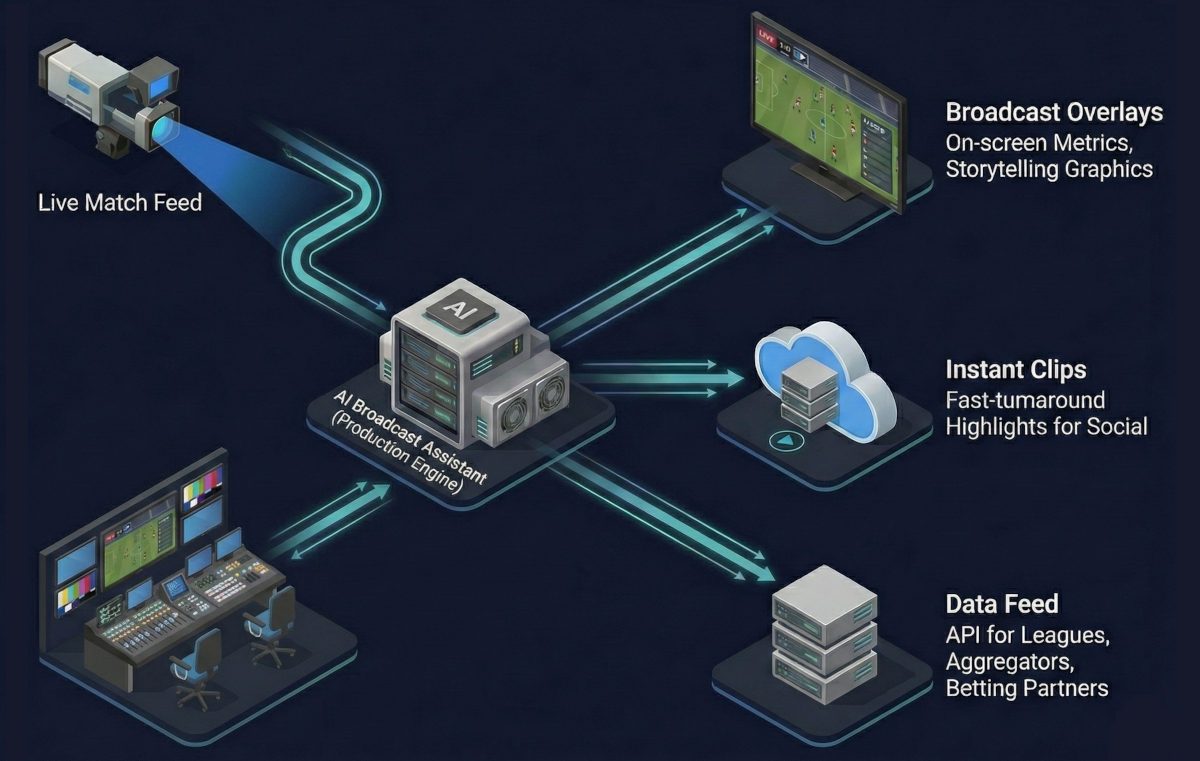
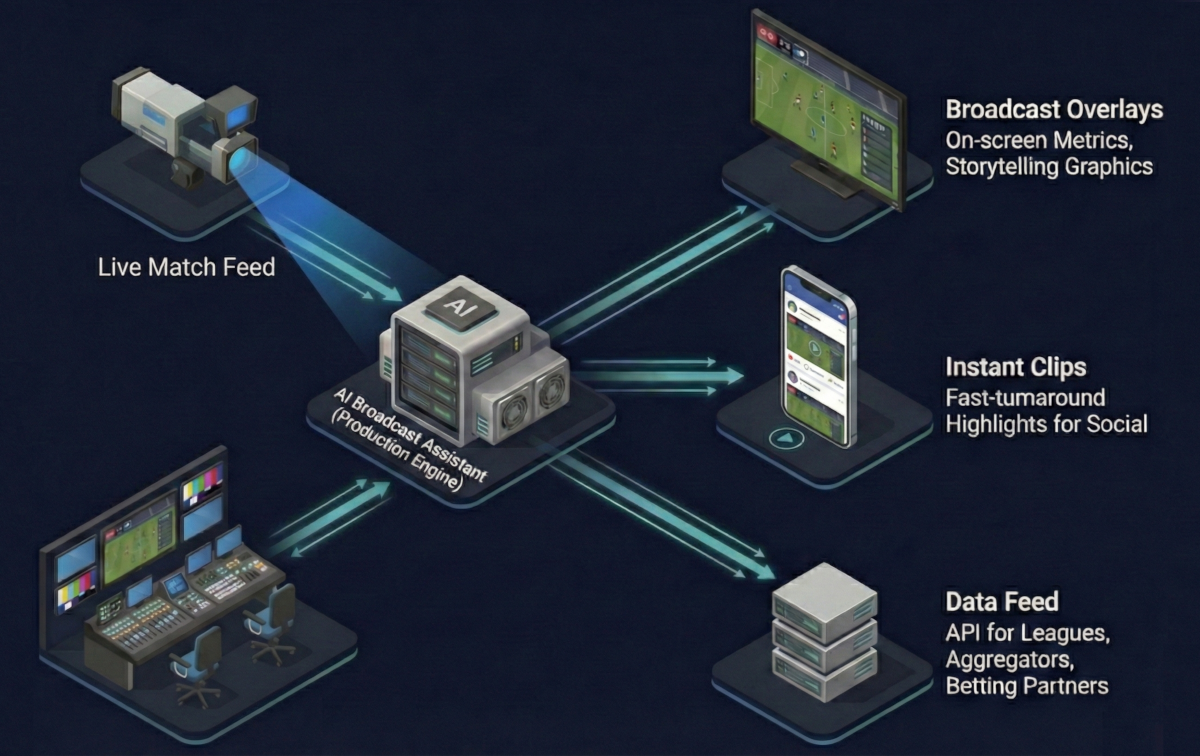
new images

diff --git a/src/views/SolutionsView.vue b/src/views/SolutionsView.vue
@@ -127,7 +127,7 @@ const emit = defineEmits<{
       <div class="mt-14 grid gap-6 lg:grid-cols-2">
         <div class="relative">
           <div
-            class="absolute left-6 top-4 z-10 om-pill w-fit bg-om-bg opacity-100"
+            class="absolute left-6 top-4 z-10 om-pill w-fit bg-om-bg opacity-100 text-white"
           >
             AI Coach Assistant
           </div>
@@ -139,7 +139,7 @@ const emit = defineEmits<{
         </div>
         <div class="relative">
           <div
-            class="absolute left-6 top-4 z-10 om-pill w-fit bg-om-bg opacity-100"
+            class="absolute left-6 top-4 z-10 om-pill w-fit bg-om-bg opacity-100 text-white"
           >
             AI Broadcast Assistant
           </div>
